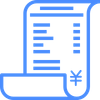
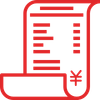
修改蓝色转红色基调

diff --git a/XTModulesSDK/Modules/LifePayment/LifePaymentAccount/XTLifePaymentAccountViewController.m b/XTModulesSDK/Modules/LifePayment/LifePaymentAccount/XTLifePaymentAccountViewController.m
@@ -69,6 +69,32 @@ static NSInteger const XTCompaniesPickerTag = 1002;
     [self requestData];
 }
 
+- (void)setRightBarButtonItem:(SEL)action title:(NSString *)title
+{
+    UIImage *locationNormalImage = [UIImage imageNamed:XTModulesSDKImage(@"life_payment_location_n")];
+    UIImage *locationHighlightedImage = [UIImage imageNamed:XTModulesSDKImage(@"life_payment_location_h")];
+    CGFloat width = [XTAppUtils sizeOfString:title font:XTFont(16.0) constrainedToSize:CGSizeMake(100.0, 44.0)].width + 5.0 + locationNormalImage.size.width;
+    
+    UIView *customView = [[UIView alloc] initWithFrame:CGRectMake(0.0, 0.0, width, 44.0)];
+    customView.backgroundColor = [UIColor clearColor];
+    
+    UIButton *actionButton = [[UIButton alloc] initWithFrame:CGRectMake(0.0, 0.0, CGRectGetWidth(customView.bounds), CGRectGetHeight(customView.bounds))];
+    actionButton.backgroundColor = [UIColor clearColor];
+    actionButton.titleLabel.font = XTFont(16.0);
+    [actionButton setTitleColor:XTBrandRedColor forState:UIControlStateNormal];
+    [actionButton setTitleColor:[XTBrandRedColor colorWithAlphaComponent:0.8] forState:UIControlStateHighlighted];
+    [actionButton setTitle:title forState:UIControlStateNormal];
+    [actionButton setImage:locationNormalImage forState:UIControlStateNormal];
+    [actionButton setImage:locationHighlightedImage forState:UIControlStateHighlighted];
+    [actionButton addTarget:self action:action forControlEvents:UIControlEventTouchUpInside];
+    [actionButton setTitleEdgeInsets:UIEdgeInsetsMake(0.0, -actionButton.imageView.image.size.width - 2.5, 0.0, actionButton.imageView.image.size.width + 2.5)];
+    [actionButton setImageEdgeInsets:UIEdgeInsetsMake(0.0, actionButton.titleLabel.bounds.size.width + 2.5, 0.0, -actionButton.titleLabel.bounds.size.width - 2.5)];
+    [customView addSubview:actionButton];
+    
+    UIBarButtonItem *rightButtonItem = [[UIBarButtonItem alloc] initWithCustomView:customView];
+    self.navigationItem.rightBarButtonItems = @[rightButtonItem];
+}
+
 #pragma mark - Button
 - (void)backButtonClicked
 {
@@ -155,32 +181,6 @@ static NSInteger const XTCompaniesPickerTag = 1002;
 }
 
 #pragma mark - Private
-- (void)setRightBarButtonItem:(SEL)action title:(NSString *)title
-{
-    UIImage *locationNormalImage = [UIImage imageNamed:XTModulesSDKImage(@"life_payment_location_n")];
-    UIImage *locationHighlightedImage = [UIImage imageNamed:XTModulesSDKImage(@"life_payment_location_h")];
-    CGFloat width = [XTAppUtils sizeOfString:title font:XTFont(16.0) constrainedToSize:CGSizeMake(100.0, 44.0)].width + 5.0 + locationNormalImage.size.width;
-    
-    UIView *customView = [[UIView alloc] initWithFrame:CGRectMake(0.0, 0.0, width, 44.0)];
-    customView.backgroundColor = [UIColor clearColor];
-    
-    UIButton *actionButton = [[UIButton alloc] initWithFrame:CGRectMake(0.0, 0.0, CGRectGetWidth(customView.bounds), CGRectGetHeight(customView.bounds))];
-    actionButton.backgroundColor = [UIColor clearColor];
-    actionButton.titleLabel.font = XTFont(16.0);
-    [actionButton setTitleColor:XTBrandBlueColor forState:UIControlStateNormal];
-    [actionButton setTitleColor:[XTBrandBlueColor colorWithAlphaComponent:0.8] forState:UIControlStateHighlighted];
-    [actionButton setTitle:title forState:UIControlStateNormal];
-    [actionButton setImage:locationNormalImage forState:UIControlStateNormal];
-    [actionButton setImage:locationHighlightedImage forState:UIControlStateHighlighted];
-    [actionButton addTarget:self action:action forControlEvents:UIControlEventTouchUpInside];
-    [actionButton setTitleEdgeInsets:UIEdgeInsetsMake(0.0, -actionButton.imageView.image.size.width - 2.5, 0.0, actionButton.imageView.image.size.width + 2.5)];
-    [actionButton setImageEdgeInsets:UIEdgeInsetsMake(0.0, actionButton.titleLabel.bounds.size.width + 2.5, 0.0, -actionButton.titleLabel.bounds.size.width - 2.5)];
-    [customView addSubview:actionButton];
-    
-    UIBarButtonItem *rightButtonItem = [[UIBarButtonItem alloc] initWithCustomView:customView];
-    self.navigationItem.rightBarButtonItems = @[rightButtonItem];
-}
-
 - (void)requestData
 {
     if (XTIsReachable) {
@@ -608,13 +608,9 @@ static NSInteger const XTCompaniesPickerTag = 1002;
     if (!_tableFooterView) {
         _tableFooterView = [[UIView alloc] initWithFrame:CGRectMake(0.0, 0.0, CGRectGetWidth(self.mainTableView.bounds), 147.0)];
         _tableFooterView.backgroundColor = [UIColor clearColor];
-        
-        UIButton *nextButton = [[UIButton alloc] initWithFrame:CGRectMake(20.0, 65.0, CGRectGetWidth(_tableFooterView.bounds) - 20.0 * 2, 45.0)];
-        nextButton.backgroundColor = [UIColor clearColor];
-        [nextButton setBackgroundImage:[XTAppUtils imageWithColor:XTBrandBlueColor] forState:UIControlStateNormal];
-        [nextButton setBackgroundImage:[XTAppUtils imageWithColor:[XTBrandBlueColor colorWithAlphaComponent:0.8]] forState:UIControlStateHighlighted];
+                
+        UIButton *nextButton = [XTAppUtils redButtonWithFrame:CGRectMake(20.0, 65.0, CGRectGetWidth(_tableFooterView.bounds) - 20.0 * 2, 45.0)];
         nextButton.titleLabel.font = XTFont(18.0);
-        [nextButton setTitleColor:[UIColor whiteColor] forState:UIControlStateNormal];
         [nextButton setTitle:@"下一步" forState:UIControlStateNormal];
         [nextButton addTarget:self action:@selector(nextButtonClicked) forControlEvents:UIControlEventTouchUpInside];
         
@@ -651,8 +647,8 @@ static NSInteger const XTCompaniesPickerTag = 1002;
         UIButton *protocolButton = [[UIButton alloc] initWithFrame:CGRectMake(CGRectGetMaxX(tipLabel.frame), 0.0, protocolWidth, CGRectGetHeight(protocolView.bounds))];
         protocolButton.backgroundColor = [UIColor clearColor];
         protocolButton.titleLabel.font = XTFont(12.0);
-        [protocolButton setTitleColor:XTColorFromHex(0xE02829) forState:UIControlStateNormal];
-        [protocolButton setTitleColor:[XTColorFromHex(0xE02829) colorWithAlphaComponent:0.8] forState:UIControlStateHighlighted];
+        [protocolButton setTitleColor:XTBrandRedColor forState:UIControlStateNormal];
+        [protocolButton setTitleColor:[XTBrandRedColor colorWithAlphaComponent:0.8] forState:UIControlStateHighlighted];
         [protocolButton setTitle:@"《缴费服务协议》" forState:UIControlStateNormal];
         [protocolButton addTarget:self action:@selector(protocolButtonClicked) forControlEvents:UIControlEventTouchUpInside];
         

diff --git a/XTModulesSDK/Modules/LifePayment/XTLifePaymentAccountCell.m b/XTModulesSDK/Modules/LifePayment/XTLifePaymentAccountCell.m
@@ -35,14 +35,14 @@
                 if ([subsubview isKindOfClass:[UIButton class]]) {
                     UIButton *button = (UIButton *)subsubview;
                     button.titleLabel.font = XTFont(14.0);
-                    [button setTitleColor:XTBrandBlueColor forState:UIControlStateNormal];
-                    [button setTitleColor:[XTBrandBlueColor colorWithAlphaComponent:0.8] forState:UIControlStateHighlighted];
+                    [button setTitleColor:XTBrandRedColor forState:UIControlStateNormal];
+                    [button setTitleColor:[XTBrandRedColor colorWithAlphaComponent:0.8] forState:UIControlStateHighlighted];
                 }
             }
             
             if (subview.subviews.count <= 2) {
                 UIView *divider = [[UIView alloc] initWithFrame:CGRectMake(67.0, (CGRectGetHeight(self.manageView.bounds) - 20.0) / 2, 1.0, 20.0)];
-                divider.backgroundColor = XTBrandBlueColor;
+                divider.backgroundColor = XTBrandRedColor;
                 [subview addSubview:divider];
             }
         }
@@ -98,19 +98,19 @@
         UIButton *editButton = [[UIButton alloc] initWithFrame:CGRectMake(0.0, 0.0, 67.0, CGRectGetHeight(_manageView.bounds))];
         editButton.backgroundColor = [UIColor clearColor];
         editButton.titleLabel.font = XTFont(14.0);
-        [editButton setTitleColor:XTBrandBlueColor forState:UIControlStateNormal];
-        [editButton setTitleColor:[XTBrandBlueColor colorWithAlphaComponent:0.8] forState:UIControlStateHighlighted];
+        [editButton setTitleColor:XTBrandRedColor forState:UIControlStateNormal];
+        [editButton setTitleColor:[XTBrandRedColor colorWithAlphaComponent:0.8] forState:UIControlStateHighlighted];
         [editButton setTitle:@"编辑" forState:UIControlStateNormal];
         [editButton addTarget:self action:@selector(editButtonClicked) forControlEvents:UIControlEventTouchUpInside];
 
         UIView *divider = [[UIView alloc] initWithFrame:CGRectMake(67.0, (CGRectGetHeight(_manageView.bounds) - 20.0) / 2, 1.0, 20.0)];
-        divider.backgroundColor = XTBrandBlueColor;
+        divider.backgroundColor = XTBrandRedColor;
         
         UIButton *deleteButton = [[UIButton alloc] initWithFrame:CGRectMake(68.0, 0.0, 67.0, CGRectGetHeight(_manageView.bounds))];
         deleteButton.backgroundColor = [UIColor clearColor];
         deleteButton.titleLabel.font = XTFont(14.0);
-        [deleteButton setTitleColor:XTBrandBlueColor forState:UIControlStateNormal];
-        [deleteButton setTitleColor:[XTBrandBlueColor colorWithAlphaComponent:0.8] forState:UIControlStateHighlighted];
+        [deleteButton setTitleColor:XTBrandRedColor forState:UIControlStateNormal];
+        [deleteButton setTitleColor:[XTBrandRedColor colorWithAlphaComponent:0.8] forState:UIControlStateHighlighted];
         [deleteButton setTitle:@"删除" forState:UIControlStateNormal];
         [deleteButton addTarget:self action:@selector(deleteButtonClicked) forControlEvents:UIControlEventTouchUpInside];
         

diff --git a/XTModulesSDK/Modules/Refuel/XTRefuelViewController.m b/XTModulesSDK/Modules/Refuel/XTRefuelViewController.m
@@ -554,18 +554,18 @@ typedef NS_ENUM(NSInteger, XTCountOperateType)
         CGFloat titleWidth = [XTAppUtils sizeOfString:@"附近加油站"
                                                  font:XTFont(14.0)
                                     constrainedToSize:CGSizeMake(200.0, 25.0)].width;
-        CGFloat buttonWidth = titleWidth + 5.0 + 14.0;
+        CGFloat buttonWidth = titleWidth + 5.0 + 20.0;
         
         UIButton *nearbyButton = [[UIButton alloc] initWithFrame:CGRectMake(CGRectGetWidth(_tableHeaderView.bounds) - 15.0 - buttonWidth, CGRectGetMaxY(bannerImageView.frame) + 12.0, buttonWidth, 25.0)];
         nearbyButton.backgroundColor = [UIColor clearColor];
         nearbyButton.adjustsImageWhenHighlighted = NO;
         nearbyButton.titleLabel.font = XTFont(14.0);
-        [nearbyButton setTitleColor:XTBrandBlueColor forState:UIControlStateNormal];
+        [nearbyButton setTitleColor:XTBrandRedColor forState:UIControlStateNormal];
         [nearbyButton setTitle:@"附近加油站" forState:UIControlStateNormal];
         [nearbyButton setImage:[UIImage imageNamed:XTModulesSDKImage(@"refuel_nearby_station")] forState:UIControlStateNormal];
         [nearbyButton addTarget:self action:@selector(nearbyButtonClicked) forControlEvents:UIControlEventTouchUpInside];
         nearbyButton.imageEdgeInsets = UIEdgeInsetsMake(0.0, titleWidth + 2.5, 0.0, -(titleWidth + 2.5));
-        nearbyButton.titleEdgeInsets = UIEdgeInsetsMake(0.0, -(14.0 + 2.5), 0.0, 14.0 + 2.5);
+        nearbyButton.titleEdgeInsets = UIEdgeInsetsMake(0.0, -(20.0 + 2.5), 0.0, 20.0 + 2.5);
         
         [_tableHeaderView addSubview:bannerImageView];
         [_tableHeaderView addSubview:nearbyButton];
@@ -590,11 +590,12 @@ typedef NS_ENUM(NSInteger, XTCountOperateType)
         UILabel *totalAmountLabel = [[UILabel alloc] initWithFrame:CGRectMake(CGRectGetMaxX(totalLabel.frame), 0.0, CGRectGetWidth(_bottomView.bounds) - CGRectGetMaxX(totalLabel.frame) - 120.0 - 15.0, CGRectGetHeight(_bottomView.bounds))];
         totalAmountLabel.backgroundColor = [UIColor clearColor];
         totalAmountLabel.font = XTFont(24.0);
-        totalAmountLabel.textColor = XTBrandRedColor;
+        totalAmountLabel.textColor = XTColorFromHex(0xA22327);
         totalAmountLabel.text = @"¥ 0.00";
         self.totalAmountLabel = totalAmountLabel;
         
         UIButton *purchaseButton = [XTAppUtils redButtonWithFrame:CGRectMake(CGRectGetWidth(_bottomView.bounds) - 120.0, 0.0, 120.0, 49.0)];
+        purchaseButton.titleLabel.font = XTFont(16.0);
         [purchaseButton setTitle:@"立即购买" forState:UIControlStateNormal];
         [purchaseButton addTarget:self action:@selector(purchaseButtonClicked) forControlEvents:UIControlEventTouchUpInside];
         

diff --git a/XTModulesSDK/Modules/LifePayment/XTLifePaymentViewController.m b/XTModulesSDK/Modules/LifePayment/XTLifePaymentViewController.m
@@ -145,6 +145,8 @@ static CGFloat const XTTabViewHeight = 116.0;
 {
     [self.view addSubview:self.tabView];
     [self.view addSubview:self.mainScrollView];
+    
+    [self switchTabWithTabItemButtonTag:_selectedTabItemButtonTag];
 }
 
 - (UIView *)generateTableHeaderView
@@ -161,8 +163,8 @@ static CGFloat const XTTabViewHeight = 116.0;
     UIButton *manageButton = [[UIButton alloc] initWithFrame:CGRectMake(CGRectGetWidth(tableHeaderView.bounds) - 58.0, 0.0, 58.0, CGRectGetHeight(tableHeaderView.bounds))];
     manageButton.backgroundColor = [UIColor clearColor];
     manageButton.titleLabel.font = XTFont(14.0);
-    [manageButton setTitleColor:XTBrandBlueColor forState:UIControlStateNormal];
-    [manageButton setTitleColor:[XTBrandBlueColor colorWithAlphaComponent:0.8] forState:UIControlStateHighlighted];
+    [manageButton setTitleColor:XTBrandRedColor forState:UIControlStateNormal];
+    [manageButton setTitleColor:[XTBrandRedColor colorWithAlphaComponent:0.8] forState:UIControlStateHighlighted];
     [manageButton setTitle:@"管理" forState:UIControlStateNormal];
     [manageButton addTarget:self action:@selector(manageButtonClicked) forControlEvents:UIControlEventTouchUpInside];
     
@@ -436,7 +438,7 @@ static CGFloat const XTTabViewHeight = 116.0;
             tabItemButton.tag = XTTabItemButtonTagBase + idx;
             tabItemButton.titleLabel.font = XTFont(14.0);
             [tabItemButton setTitleColor:XTBrandLightBlackColor forState:UIControlStateNormal];
-            [tabItemButton setTitleColor:XTBrandBlueColor forState:UIControlStateSelected];
+            [tabItemButton setTitleColor:XTBrandRedColor forState:UIControlStateSelected];
             [tabItemButton setTitle:buttonTitle forState:UIControlStateNormal];
             [tabItemButton setImage:[UIImage imageNamed:XTModulesSDKImage(buttonNormalImageNameArray[idx])] forState:UIControlStateNormal];
             [tabItemButton setImage:[UIImage imageNamed:XTModulesSDKImage(buttonSelectedImageNameArray[idx])] forState:UIControlStateSelected];
@@ -448,7 +450,7 @@ static CGFloat const XTTabViewHeight = 116.0;
         }];
         
         self.indicatorView = [[UIView alloc] initWithFrame:CGRectMake(0.0, CGRectGetHeight(_tabView.bounds) - 2.0, CGRectGetWidth(_tabView.bounds) / self.tabItemButtonArray.count, 2.0)];
-        self.indicatorView.backgroundColor = XTBrandBlueColor;
+        self.indicatorView.backgroundColor = XTBrandRedColor;
         [_tabView addSubview:self.indicatorView];
     }
     

diff --git a/XTModulesSDK/Modules/LifePayment/LifePaymentPayBill/XTLifePaymentPayBillViewController.m b/XTModulesSDK/Modules/LifePayment/LifePaymentPayBill/XTLifePaymentPayBillViewController.m
@@ -212,12 +212,8 @@
     messageLabel.textColor = XTColorFromHex(0xCCCCCC);
     messageLabel.text = message;
     
-    UIButton *knowButton = [[UIButton alloc] initWithFrame:CGRectMake(0.0, CGRectGetHeight(contentView.bounds) - 40.0, CGRectGetWidth(contentView.bounds), 40.0)];
-    knowButton.backgroundColor = [UIColor clearColor];
-    [knowButton setBackgroundImage:[XTAppUtils imageWithColor:XTBrandBlueColor] forState:UIControlStateNormal];
-    [knowButton setBackgroundImage:[XTAppUtils imageWithColor:[XTBrandBlueColor colorWithAlphaComponent:0.8]] forState:UIControlStateHighlighted];
+    UIButton *knowButton = [XTAppUtils redButtonWithFrame:CGRectMake(0.0, CGRectGetHeight(contentView.bounds) - 40.0, CGRectGetWidth(contentView.bounds), 40.0)];
     knowButton.titleLabel.font = XTFont(14.0);
-    [knowButton setTitleColor:[UIColor whiteColor] forState:UIControlStateNormal];
     [knowButton setTitle:@"我知道了" forState:UIControlStateNormal];
     [knowButton addTarget:self action:@selector(knowButtonClicked) forControlEvents:UIControlEventTouchUpInside];
     
@@ -407,13 +403,8 @@
 - (UIButton *)nextButton
 {
     if (!_nextButton) {
-        _nextButton = [[UIButton alloc] initWithFrame:CGRectMake(0.0, XTNonTopLevelViewHeight - 45.0, XTMainScreenWidth, 45.0)];
-        _nextButton.backgroundColor = [UIColor clearColor];
-        [_nextButton setBackgroundImage:[XTAppUtils imageWithColor:XTBrandBlueColor] forState:UIControlStateNormal];
-        [_nextButton setBackgroundImage:[XTAppUtils imageWithColor:[XTBrandBlueColor colorWithAlphaComponent:0.8]] forState:UIControlStateHighlighted];
-        [_nextButton setBackgroundImage:[XTAppUtils imageWithColor:[XTBrandBlueColor colorWithAlphaComponent:0.4]] forState:UIControlStateDisabled];
+        _nextButton = [XTAppUtils redButtonWithFrame:CGRectMake(0.0, XTNonTopLevelViewHeight - 45.0, XTMainScreenWidth, 45.0)];
         _nextButton.titleLabel.font = XTFont(18.0);
-        [_nextButton setTitleColor:[UIColor whiteColor] forState:UIControlStateNormal];
         [_nextButton setTitle:@"下一步" forState:UIControlStateNormal];
         [_nextButton addTarget:self action:@selector(nextButtonClicked) forControlEvents:UIControlEventTouchUpInside];
         _nextButton.enabled = NO;

diff --git a/XTModulesSDK/Base/XTBaseViewController.m b/XTModulesSDK/Base/XTBaseViewController.m
@@ -99,8 +99,8 @@
     UIButton *actionButton = [[UIButton alloc] initWithFrame:CGRectMake(0.0, 0.0, CGRectGetWidth(customView.bounds), CGRectGetHeight(customView.bounds))];
     actionButton.backgroundColor = [UIColor clearColor];
     actionButton.titleLabel.font = XTFont(16.0);
-    [actionButton setTitleColor:XTBrandBlueColor forState:UIControlStateNormal];
-    [actionButton setTitleColor:[XTBrandBlueColor colorWithAlphaComponent:0.8] forState:UIControlStateHighlighted];
+    [actionButton setTitleColor:XTBrandRedColor forState:UIControlStateNormal];
+    [actionButton setTitleColor:[XTBrandRedColor colorWithAlphaComponent:0.8] forState:UIControlStateHighlighted];
     [actionButton setTitle:title forState:UIControlStateNormal];
     [actionButton addTarget:self action:action forControlEvents:UIControlEventTouchUpInside];
     [customView addSubview:actionButton];
@@ -119,8 +119,8 @@
     UIButton *actionButton = [[UIButton alloc] initWithFrame:CGRectMake(0.0, 0.0, CGRectGetWidth(customView.bounds), CGRectGetHeight(customView.bounds))];
     actionButton.backgroundColor = [UIColor clearColor];
     actionButton.titleLabel.font = XTFont(16.0);
-    [actionButton setTitleColor:XTBrandBlueColor forState:UIControlStateNormal];
-    [actionButton setTitleColor:[XTBrandBlueColor colorWithAlphaComponent:0.8] forState:UIControlStateHighlighted];
+    [actionButton setTitleColor:XTBrandRedColor forState:UIControlStateNormal];
+    [actionButton setTitleColor:[XTBrandRedColor colorWithAlphaComponent:0.8] forState:UIControlStateHighlighted];
     [actionButton setTitle:title forState:UIControlStateNormal];
     [actionButton addTarget:self action:action forControlEvents:UIControlEventTouchUpInside];
     [customView addSubview:actionButton];

diff --git a/XTModulesSDK/Modules/Refuel/XTRefuelTicketsViewController.m b/XTModulesSDK/Modules/Refuel/XTRefuelTicketsViewController.m
@@ -331,7 +331,7 @@ static CGFloat const XTTabViewHeight = 50.0;
             tabItemButton.tag = XTTabItemButtonTagBase + idx;
             tabItemButton.titleLabel.font = XTFont(14.0);
             [tabItemButton setTitleColor:XTBrandLightBlackColor forState:UIControlStateNormal];
-            [tabItemButton setTitleColor:XTBrandBlueColor forState:UIControlStateSelected];
+            [tabItemButton setTitleColor:XTBrandRedColor forState:UIControlStateSelected];
             [tabItemButton setTitle:buttonTitle forState:UIControlStateNormal];
             [tabItemButton addTarget:self action:@selector(tabItemButtonClicked:) forControlEvents:UIControlEventTouchUpInside];
             [_tabView addSubview:tabItemButton];
@@ -339,7 +339,7 @@ static CGFloat const XTTabViewHeight = 50.0;
         }];
         
         self.indicatorView = [[UIView alloc] initWithFrame:CGRectMake(0.0, CGRectGetHeight(_tabView.bounds) - 2.0, CGRectGetWidth(_tabView.bounds) / self.tabItemButtonArray.count, 2.0)];
-        self.indicatorView.backgroundColor = XTBrandBlueColor;
+        self.indicatorView.backgroundColor = XTBrandRedColor;
         [_tabView addSubview:self.indicatorView];
     }
     

diff --git a/XTModulesSDK/Base/XTBaseWebViewController.m b/XTModulesSDK/Base/XTBaseWebViewController.m
@@ -248,7 +248,7 @@
     if (!_estimatedProgressView) {
         _estimatedProgressView = [[UIProgressView alloc] initWithFrame:CGRectMake(0.0, 0.0, XTMainScreenWidth, 2.0)];
         _estimatedProgressView.backgroundColor = [UIColor clearColor];
-        _estimatedProgressView.progressTintColor = XTBrandBlueColor;
+        _estimatedProgressView.progressTintColor = XTBrandRedColor;
         _estimatedProgressView.trackTintColor = [UIColor clearColor];
         _estimatedProgressView.transform = CGAffineTransformMakeScale(1.0, 1.5);
         _estimatedProgressView.alpha = 0.0;
@@ -279,6 +279,7 @@
         tipLabel.text = @"网络无法连接";
         
         UIButton *reloadButton = [XTAppUtils redButtonWithFrame:CGRectMake((CGRectGetWidth(contentView.bounds) - 100.0) / 2, CGRectGetMaxY(tipLabel.frame) + 20.0, 100.0, 45.0)];
+        reloadButton.titleLabel.font = XTFont(16.0);
         [reloadButton setTitle:@"重新加载" forState:UIControlStateNormal];
         [reloadButton addTarget:self action:@selector(reloadButtonClicked) forControlEvents:UIControlEventTouchUpInside];
         

diff --git a/XTModulesSDK/Utils/XTAppUtils.m b/XTModulesSDK/Utils/XTAppUtils.m
@@ -128,9 +128,9 @@
     UIButton *button = [[UIButton alloc] initWithFrame:frame];
     button.backgroundColor = [UIColor clearColor];
     
-    [button setBackgroundImage:[XTAppUtils imageWithColor:XTColorFromHex(0xE02829)] forState:UIControlStateNormal];
-    [button setBackgroundImage:[XTAppUtils imageWithColor:[XTColorFromHex(0xE02829) colorWithAlphaComponent:0.8]] forState:UIControlStateHighlighted];
-    [button setBackgroundImage:[XTAppUtils imageWithColor:[XTColorFromHex(0xE02829) colorWithAlphaComponent:0.4]] forState:UIControlStateDisabled];
+    [button setBackgroundImage:[XTAppUtils imageWithColor:XTBrandRedColor] forState:UIControlStateNormal];
+    [button setBackgroundImage:[XTAppUtils imageWithColor:[XTBrandRedColor colorWithAlphaComponent:0.8]] forState:UIControlStateHighlighted];
+    [button setBackgroundImage:[XTAppUtils imageWithColor:[XTBrandRedColor colorWithAlphaComponent:0.4]] forState:UIControlStateDisabled];
     
     button.titleLabel.font = XTFont(16.0);
     [button setTitleColor:[UIColor whiteColor] forState:UIControlStateNormal];

diff --git a/XTModulesSDK/Modules/PhoneRecharge/XTPhonePriceButton.m b/XTModulesSDK/Modules/PhoneRecharge/XTPhonePriceButton.m
@@ -62,8 +62,8 @@
 {
     [super setHighlighted:highlighted];
     
-    self.backgroundColor = highlighted ? XTBrandBlueColor : [UIColor clearColor];
-    self.facePriceLabel.textColor = highlighted ? [UIColor whiteColor] : XTBrandBlueColor;
+    self.backgroundColor = highlighted ? XTBrandRedColor : [UIColor clearColor];
+    self.facePriceLabel.textColor = highlighted ? [UIColor whiteColor] : XTBrandRedColor;
     self.salePriceLabel.textColor = self.facePriceLabel.textColor;
 }
 
@@ -72,8 +72,8 @@
     [super setEnabled:enabled];
     
     if (enabled) {
-        self.layer.borderColor = XTBrandBlueColor.CGColor;
-        self.facePriceLabel.textColor = XTBrandBlueColor;
+        self.layer.borderColor = XTBrandRedColor.CGColor;
+        self.facePriceLabel.textColor = XTBrandRedColor;
     } else {
         self.layer.borderColor = XTBrandGrayColor.CGColor;
         self.facePriceLabel.textColor = XTBrandGrayColor;

diff --git a/XTModulesSDK/Utils/XTMacro.h b/XTModulesSDK/Utils/XTMacro.h
@@ -44,8 +44,7 @@
 #define XTBrandLightBlackColor  XTColorFromHex(0x4D4D4D) // 品牌浅黑
 #define XTBrandGrayColor        XTColorFromHex(0xA2A2A2) // 品牌灰
 #define XTBrandLightGrayColor   XTColorFromHex(0xE8E8E8) // 品牌浅灰
-#define XTBrandRedColor         XTColorFromHex(0xA22327) // 品牌红
-#define XTBrandBlueColor        XTColorFromHex(0x4A8CFF) // 品牌蓝
+#define XTBrandRedColor         XTColorFromHex(0xE0282A) // 品牌红
 
 #define XTViewBGColor     XTColorFromHex(0xF6F6F6) // 视图背景颜色
 #define XTSeparatorColor  XTColorFromHex(0xE8E8E8) // 分割线颜色
